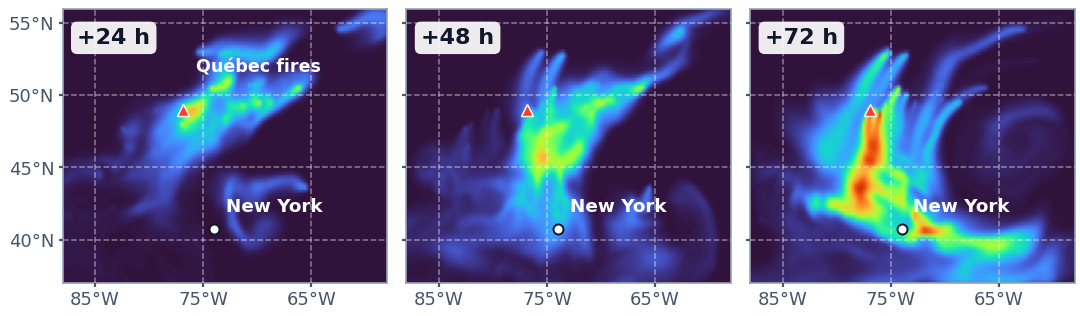
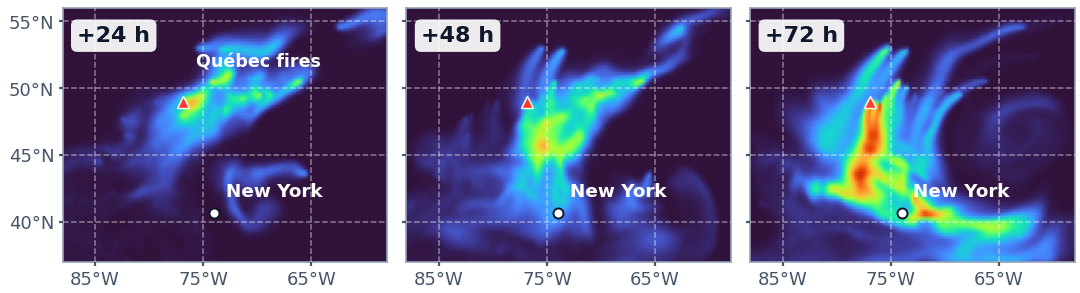
Smoke tile: height 1.2x (154px), width still matched to NACA
Re-render at 5.4x1.4667in so the tile displays 568x154 (1.2x the 128px square tiles); thumb_h 166->154.

diff --git a/index.html b/index.html
@@ -277,7 +277,7 @@
             <span class="stat"><span class="k">Best rRMSE</span><span class="v good">0.24060</span></span>
           </div>
         </div>
-        <div class="thumb" style="height:166px"><img src="./wildfire-smoke/field.png?v=be2e5427" alt="Wildfire Smoke Transport reference solution field" loading="lazy"></div>
+        <div class="thumb" style="height:154px"><img src="./wildfire-smoke/field.png?v=ed1fa6f2" alt="Wildfire Smoke Transport reference solution field" loading="lazy"></div>
       </a>
 
     </div>